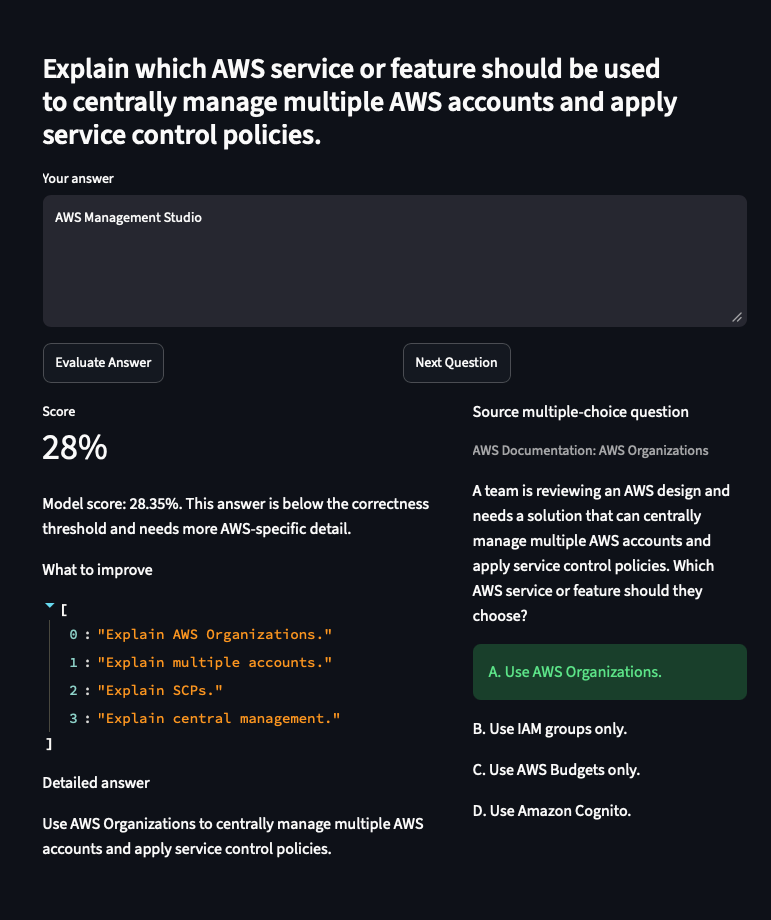
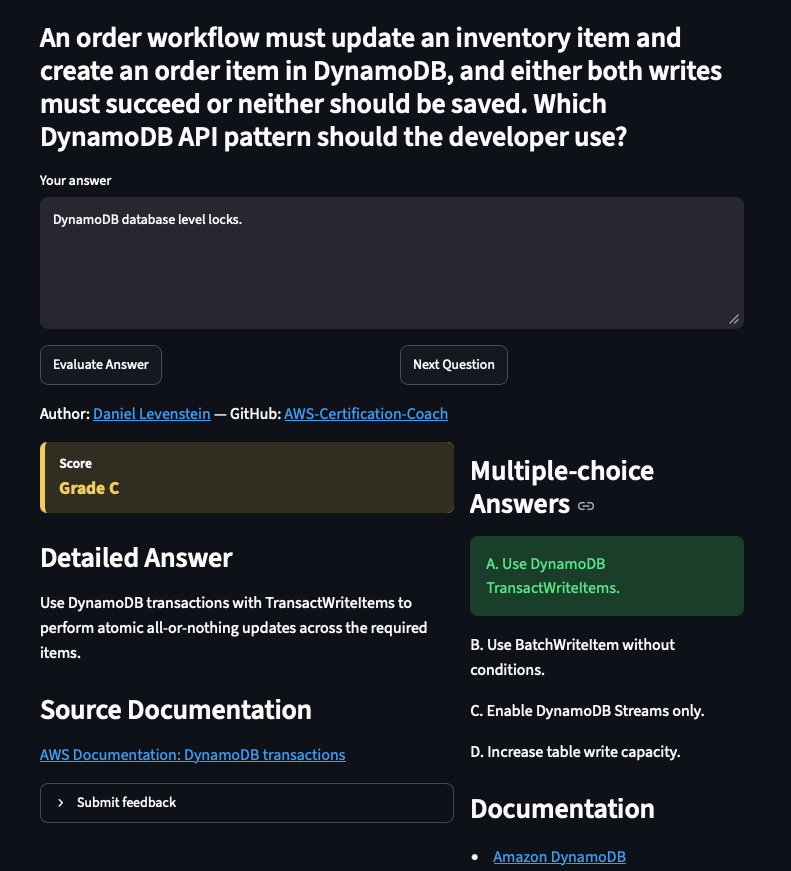
v3.2.3 Updated per letter grade screenshots.

Changed region(s): [[0.0311, 0.372, 0.9961, 0.992], [0.0311, 0.031, 0.9339, 0.279], [0.4981, 0.372, 0.9027, 0.496]]

diff --git a/app.py b/app.py
@@ -19,12 +19,12 @@ from aws_certification_coach.questions.json_repository import JsonQuestionReposi
 from aws_certification_coach.quiz.session import QuizSession
 from aws_certification_coach.ratings import LETTER_RATINGS, score_to_letter
 
-
+# TODO move user_feedback version to schema_version.json
 QUESTIONS_PATH = ROOT_DIR / "data" / "questions" / "sample_questions.json"
 USER_FEEDBACK_PATH = Path(
     os.environ.get(
         "USER_FEEDBACK_PATH",
-        ROOT_DIR / "data" / "generated" / "user_feedback.v2.json",
+        ROOT_DIR / "data" / "generated" / "user_feedback.v3.json",
     )
 )
 

diff --git a/README.md b/README.md
@@ -14,7 +14,7 @@ The latest version of this project is deployed live on Render.
 
 ## Application Screenshot
 
-<img src="docs/images/aws-certification-coach3.png" alt="Certification Exam Screenshot" width="720">
+<img src="docs/images/aws-certification-coach.png" alt="Certification Exam Screenshot" width="720">
 
 *Figure: The coach scores a freeform Amazon answer and displays detailed feedback alongside the source multiple-choice question.*
 
@@ -50,7 +50,7 @@ The schema redesign branch starts the v3 release line. Use `v3.1.x` for new rele
 
 
 | Release | Description                                                                                        |
-| ------- | -------------------------------------------------------------------------------------------------- |
+|---------|----------------------------------------------------------------------------------------------------|
 | v1.0.0  | Initial Streamlit/Docker release with generated AWS certification practice questions..             |
 | v1.1.0  | Separated the app-facing question bank from training labels.                                       |
 | v1.3.1  | Test framework redesign; initial curated grade-band accuracy was 44%.                              |
@@ -60,7 +60,9 @@ The schema redesign branch starts the v3 release line. Use `v3.1.x` for new rele
 | v2.1.1  | Added AWS Developer Certification practice questions                                               |
 | v2.3.6  | Improved answer evaluation model and added within one letter grade metric to release notes         |
 | v2.4.5  | Got exact letter accuracy metric over 87%                                                          |
-
+| v3.1.4  | Heuristic grading improvement                                                                      |
+| v3.2.1  | Added Semantic Similarity chart back                                                               |
+| v3.2.3  | Updated per letter grade screenshots.                                                              |
 #### Scope
 
 Certifications:
